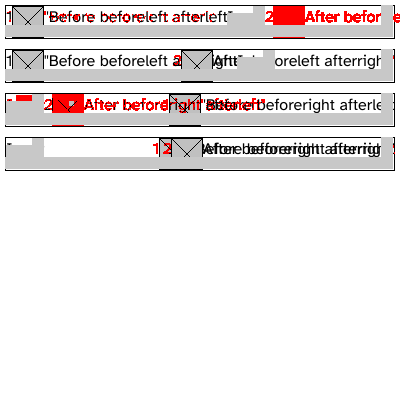
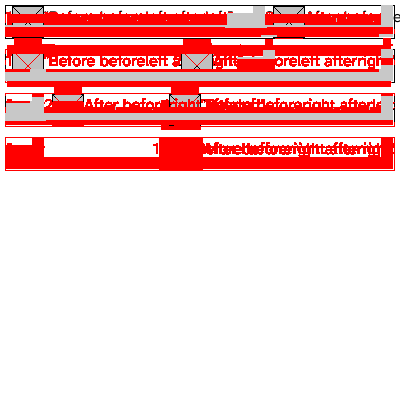
Revert "Fix float positioning for inline floated elements"
This reverts commit 2d300f2dd9b3a426ee04946e7157ab486b9b556b.

Changed region(s): [[0.0, 0.0, 1.0, 0.45]]

diff --git a/pkg/layout/layout.go b/pkg/layout/layout.go
@@ -723,14 +723,9 @@ func (le *LayoutEngine) layoutNode(node *html.Node, x, y, availableWidth float64
 			childDisplay := childStyle.GetDisplay()
 
 			// Layout the child
-			// For floated elements, use containing block's left edge, not current inline position
-			childX := inlineCtx.LineX
-			if childStyle.GetFloat() != css.FloatNone {
-				childX = box.X + border.Left + padding.Left
-			}
 			childBox := le.layoutNode(
 				child,
-				childX,
+				inlineCtx.LineX,
 				inlineCtx.LineY,
 				childAvailableWidth,
 				computedStyles,
@@ -885,14 +880,8 @@ func (le *LayoutEngine) layoutNode(node *html.Node, x, y, availableWidth float64
 
 					box.Children = append(box.Children, childBox)
 
-					// For floats on the current inline line, update LineX so subsequent content wraps
-					childFloatType := childBox.Style.GetFloat()
-					if childFloatType != css.FloatNone && childBox.Y == inlineCtx.LineY {
-						// Float is on the current line - update LineX to account for it
-						le.ensureLineXClearsFloats(inlineCtx, box, border, padding)
-					}
-
 					// Advance Y for block elements
+					childFloatType := childBox.Style.GetFloat()
 					if childBox.Position != css.PositionAbsolute && childBox.Position != css.PositionFixed && childFloatType == css.FloatNone {
 						// Margin-collapse-through: collect margins from collapse-through elements
 						// and combine them with the next non-collapse-through sibling's margins.
